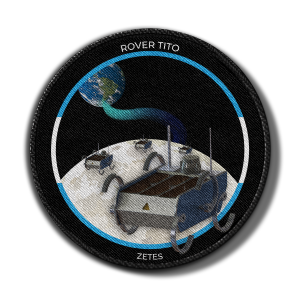
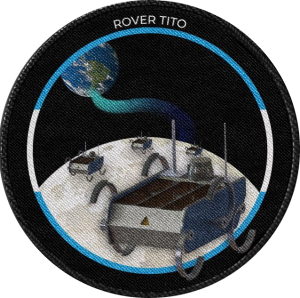
nuevas fotos

diff --git a/assets/css/main.css b/assets/css/main.css
@@ -2575,13 +2575,13 @@ input, select, textarea {
 			}
 
 			.image.blog {
-				display: block;
+				display: inline-block;
 				margin: 0 0 2em 0;
-				width: 100%;
+				width: 50%;
 			}
 	
 				.image.blog img {
-					width: 50%;
+					width: 100%;
 				}
 
 			.image.log {
@@ -3004,7 +3004,7 @@ input, select, textarea {
 		background-position: center center;
 		background-size: cover;
 		box-shadow: 0 0.25em 0.5em 0 rgba(0, 0, 0, 0.25);
-		height: 100vh;
+		height:100vh;
 		overflow: hidden;
 		position: relative;
 	}
@@ -3920,7 +3920,7 @@ input, select, textarea {
 
 					#banner .content .image {
 						height: 9em;
-						width: 9em;
+						width: 13em;
 					}
 
 		/* Nav */

diff --git a/index.html b/index.html
@@ -69,7 +69,7 @@
 								<div class="col-4 col-12-medium">
 									<header>
 										<h2>Mission</h2>
-										<span class="image"><img src="images/parche.png" alt="" /></span>
+										<span class="image"><img src="images/PARCHE.png" alt="" /></span>
 										<p></p>
 									</header>
 								</div>
@@ -109,7 +109,7 @@
 
 			<!-- Two -->
 				<section id="two" class="spotlight style2 right">
-					<span class="image fit main"><img src="images/rover.jpeg" alt="" /></span>
+					<span class="image fit main"><img src="images/tito_luna.png" alt="" /></span>
 					<div class="content">
 						<header>
 							<h2>Rovertito</h2>
